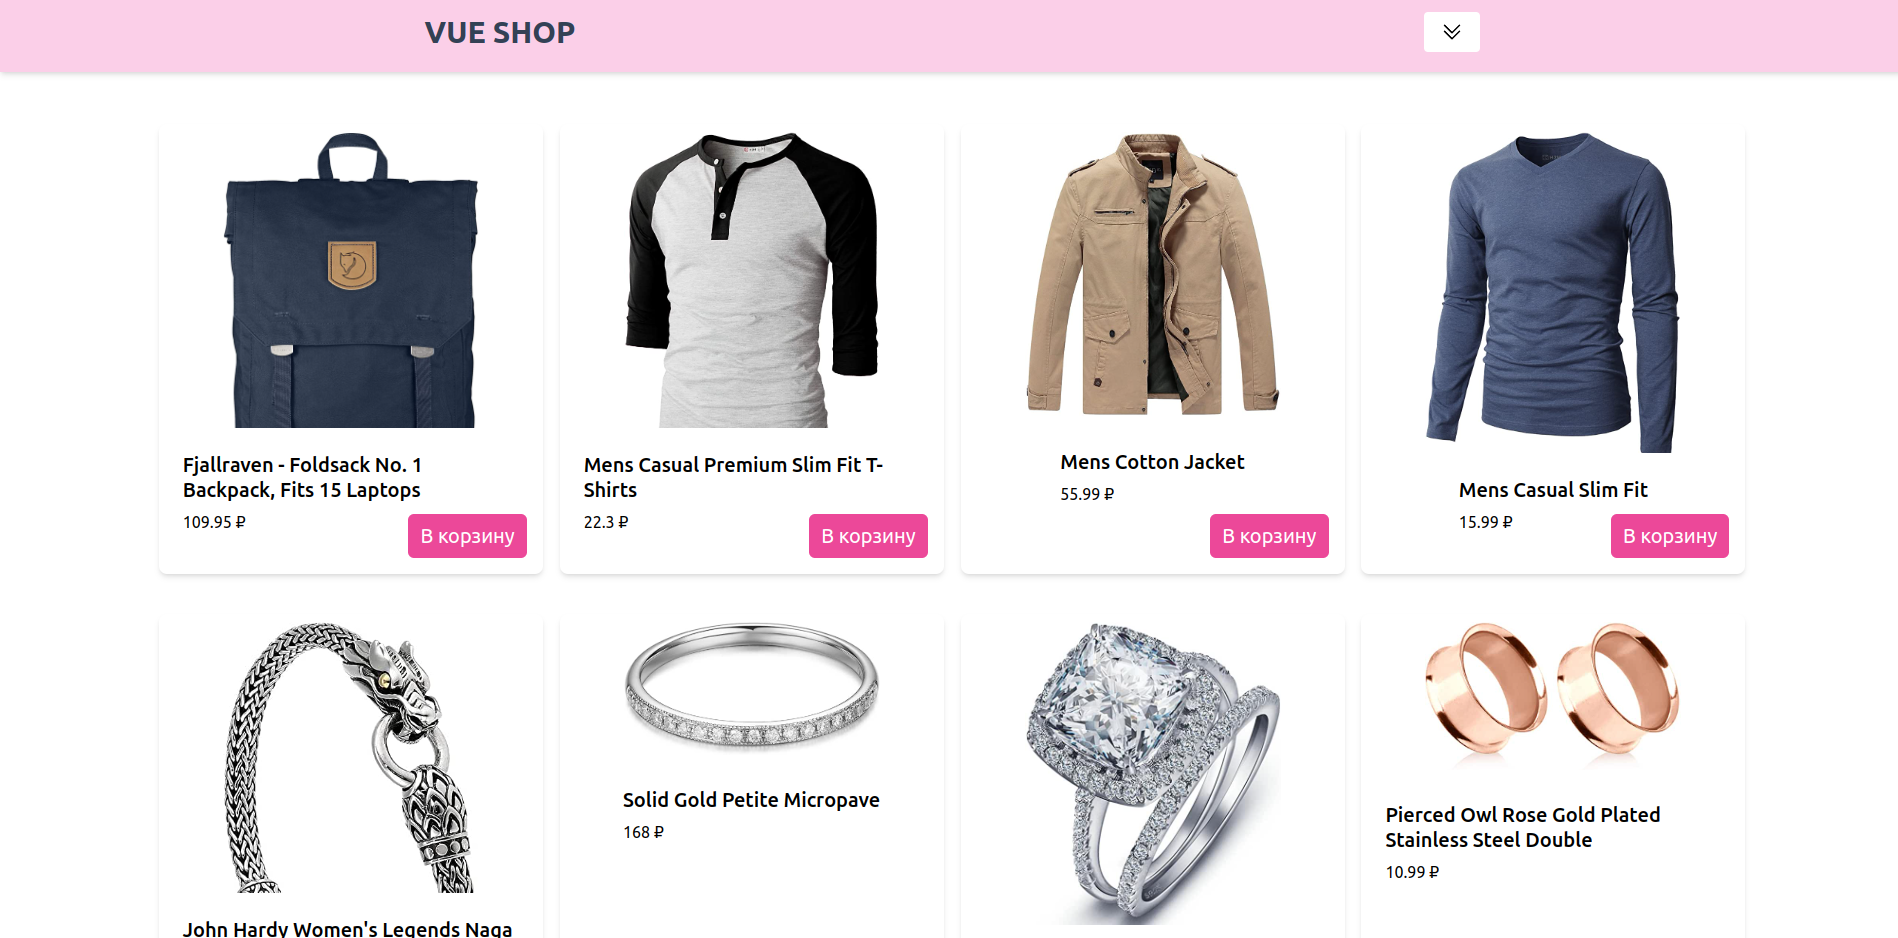
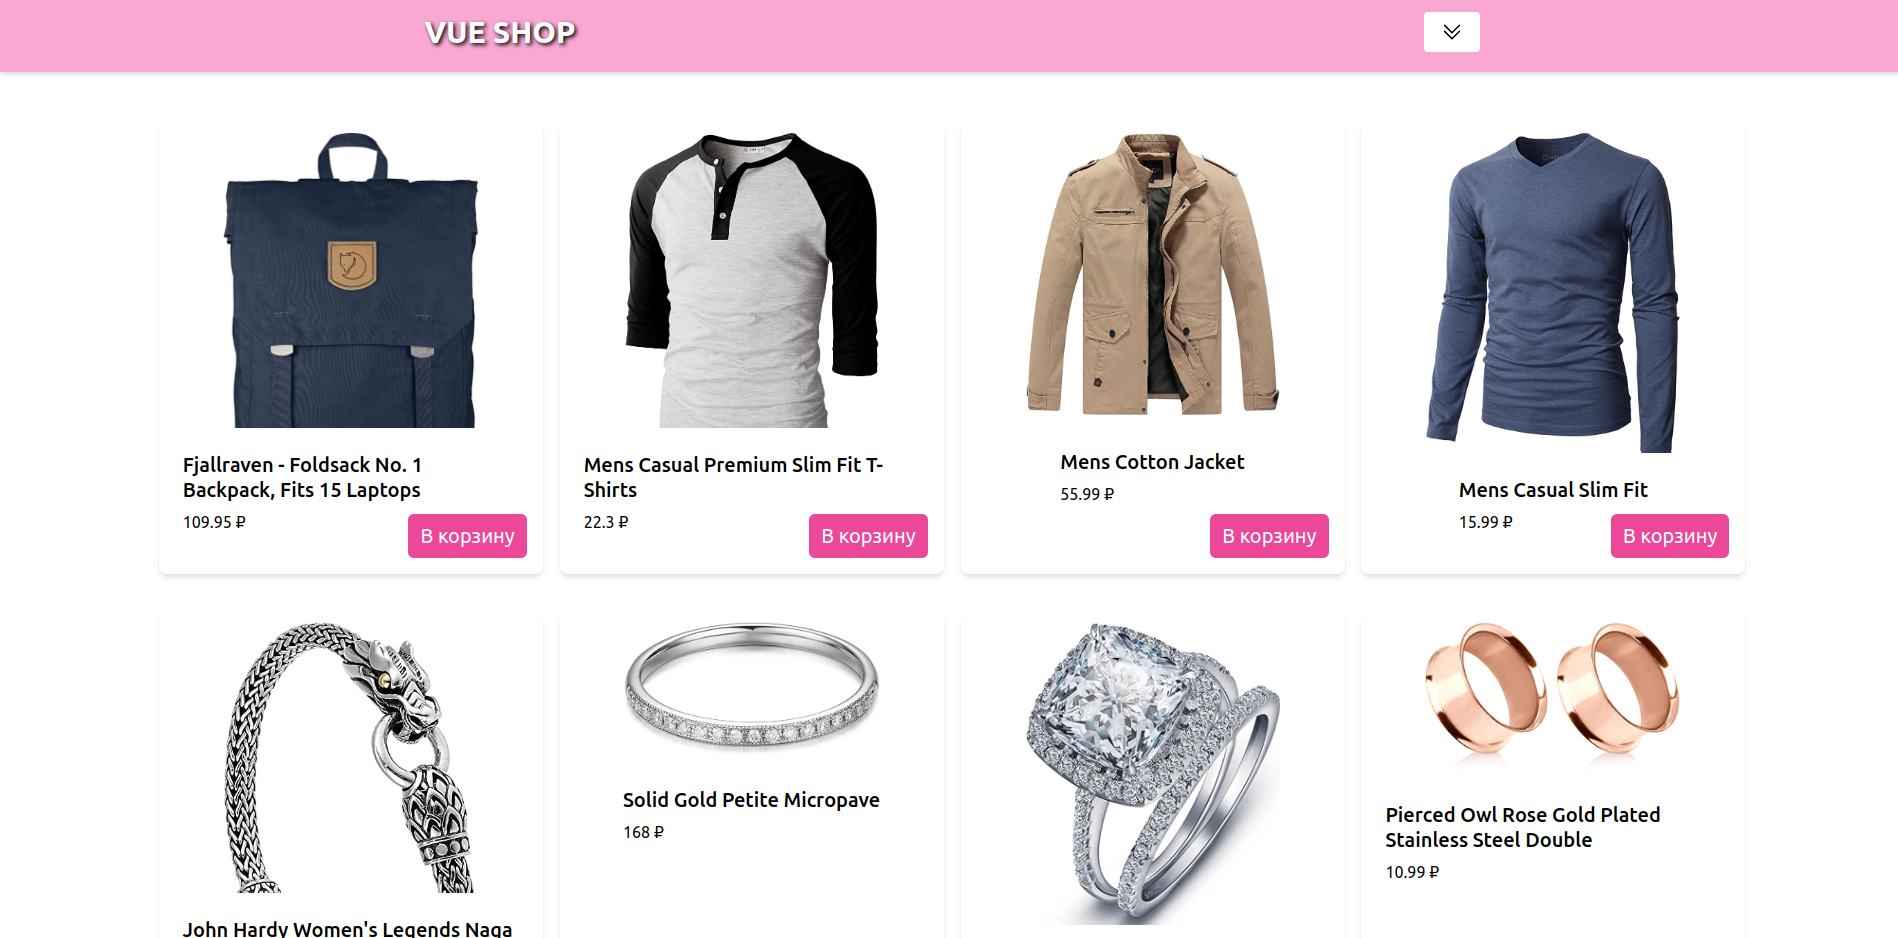
update README

Changed region(s): [[0.0, 0.0, 1.0, 0.0928]]

diff --git a/src/components/Card.vue b/src/components/Card.vue
@@ -1,19 +1,18 @@
 <script setup>
 import { defineProps } from "vue";
+import { storeToRefs } from 'pinia';
+import { useBasketStore } from "@/stores/basket";
+const store = useBasketStore();
+const { showProduct } = store;
+
 defineProps({
   product: Object,
 });
 </script>
 <template>
-  <div
-    class="rounded-lg bg-white shadow-secondary-1 h-[450px] 
-    w-96 dark:bg-surface-dark flex flex-col items-center card my-3 relative"
-  >
-    <div
-      class="relative overflow-hidden bg-cover bg-no-repeat"
-      data-twe-ripple-init
-      data-twe-ripple-color="light"
-    >
+  <div class="rounded-lg bg-white shadow-secondary-1 h-[450px] 
+    w-96 dark:bg-surface-dark flex flex-col items-center card my-3 relative">
+    <div class="relative overflow-hidden bg-cover bg-no-repeat" data-twe-ripple-init data-twe-ripple-color="light">
       <img class="rounded-t-lg h-auto w-64 my-2" :src="product.image" alt="" />
     </div>
     <div class="p-6 text-surface dark:text-white">
@@ -23,11 +22,11 @@ defineProps({
       <p class="mb-4 text-base">
         {{ product.price }} &#8381;
       </p>
-      <button
-        class="absolute bottom-4 right-4 py-2 px-3
+      <button 
+      @click="store.addProduct(product)"
+      class="absolute bottom-4 right-4 py-2 px-3
          bg-pink-500 rounded-md text-white text-xl
-         hover:transform hover:scale-105 duration-300"
-      >
+         hover:transform hover:scale-105 duration-300">
         В корзину
       </button>
     </div>

diff --git a/src/stores/basket.js b/src/stores/basket.js
@@ -1,0 +1,64 @@
+import { ref, computed, compile } from "vue";
+import { defineStore } from "pinia";
+
+export const useBasketStore = defineStore("basket", () => {
+  const products = ref([]);
+
+  const addProduct = (product) => {
+    products.value.push(product);
+  };
+
+  const delProduct = (product) => {
+    products.value = products.value.filter((item) => item.id !== product.id);
+  };
+
+  const incProduct = (product) => {
+    products.value = products.value.map((item) => {
+      if (item.id === product.id) {
+        return { ...item, count: item.count + 1 };
+      }
+      return item;
+    });
+  };
+
+  const decProduct = (product) => {
+    products.value = products.value.map((item) => {
+      if (item.id === product.id) {
+        return { ...item, count: item.count - 1 };
+      }
+      return item;
+    });
+
+    const countTotal = computed(() => {
+      const count = 0;
+      products.value.forEach((item) => {
+        count += item.count;
+      });
+      return count;
+    });
+
+    const totalSum = computed(() => {
+      return products.value.reduce(
+        (acc, item) => acc + item.price * item.count,
+        0
+      )
+    });
+
+
+    function showProduct(prod) {
+      console.log(prod);
+    };
+
+
+    return {
+      products,
+      showProduct,
+      addProduct,
+      totalSum,
+      delProduct,
+      incProduct,
+      decProduct,
+      countTotal,
+    };
+  };
+});

diff --git a/src/components/Navigation.vue b/src/components/Navigation.vue
@@ -5,12 +5,13 @@ const emit = defineEmits(['openMenu']);
 </script>
 
 <template>
-  <div class="bg-pink-200 shadow-md py-5 m-0">
+  <div class="bg-pink-300 shadow-md py-5 m-0">
     <div class="flex justify-around items-center">
-      <h1 class="text-3xl font-bold text-slate-700 uppercase">Vue Shop</h1>
+      <h1 class="text-3xl font-bold text-slate-700
+      uppercase text">Vue Shop</h1>
       <button 
       @click="emit('openMenu')"
-      class="bg-white px-4 py-2 text-xl rounded hover:outline hover:outline-pink-300">
+      class="bg-white px-4 py-2 text-xl rounded ">
         <svg
           xmlns="http://www.w3.org/2000/svg"
           fill="none"
@@ -30,4 +31,19 @@ const emit = defineEmits(['openMenu']);
   </div>
 </template>
 
-<style scoped></style>
+<style scoped>
+.text{
+  color: white;
+  text-shadow: 2px 2px 6px #000000;
+}
+
+button{
+  transition-duration: 0.4s;
+  transition-timing-function: ease;
+}
+
+button:hover{
+  transform: scale(1.1);
+  color: rgb(237, 145, 160);
+}
+</style>

diff --git a/src/App.vue b/src/App.vue
@@ -1,11 +1,14 @@
 <script setup>
-import { ref, onMounted } from "vue";
+import { ref, onMounted, defineAsyncComponent } from "vue";
 import Navigation from "./components/Navigation.vue";
 import axios from "axios";
 import Card from "./components/Card.vue";
 import ProductsNavigation from "./components/ProductsNavigation.vue";
-import HiddenMenu from "./components/HiddenMenu.vue";
+// import HiddenMenu from "./components/HiddenMenu.vue";
 
+const HiddenMenu = defineAsyncComponent(() =>
+  import('./components/HiddenMenu.vue')
+)
 const showCards = ref(false);
 
 const products = ref([]);
@@ -28,7 +31,9 @@ onMounted(() => {
 <template>
   <header>
     <Navigation @openMenu="showCards = !showCards" />
+
     <HiddenMenu v-if="showCards" />
+
   </header>
   <main>
     <div class="grid grid-cols-4 my-10 gap-4 w-10/12 mx-auto">

diff --git a/src/components/HiddenMenu.vue b/src/components/HiddenMenu.vue
@@ -1,8 +1,23 @@
-<script setup></script>
+<script setup>
+import { useBasketStore } from '@/stores/basket';
+import { storeToRefs } from 'pinia';
+
+const store = useBasketStore();
+const {countTotal} = storeToRefs(store);
+console.log(countTotal);
+</script>
 
 <template>
   <div class="w-1/4 absolute right-0 top-22 shadow-2xl h-screen
    bg-slate-100 z-10">
-    <p class="text-3xl text-center text-pink-500">Моя корзина</p>
+    <div class="flex flex-col items-center mt-24">
+      <img src="@/assets/basket-red.png" class="mx-auto my-3" width="120" height="auto" alt="">
+      <h1 class="text-2xl text-center font-bold text-slate-700 uppercase text">Ваша корзина пуста</h1>
+    </div>
+
   </div>
 </template>
+
+<style scoped>
+  
+</style>

diff --git a/index.html b/index.html
@@ -2,9 +2,9 @@
 <html lang="en">
   <head>
     <meta charset="UTF-8">
-    <link rel="icon" href="/favicon.ico">
+    <link rel="icon" href="./src/assets/ava.png">
     <meta name="viewport" content="width=device-width, initial-scale=1.0">
-    <title>Vite App</title>
+    <title>Shop App</title>
   </head>
   <body>
     <div id="app"></div>

diff --git a/src/components/ProductsNavigation.vue b/src/components/ProductsNavigation.vue
@@ -9,7 +9,7 @@
       <button class="btn-nav">2</button>
       <button class="btn-nav">3</button>
       <button class="btn-nav">4</button>
-      <button class="btn-nav">4</button>
+      <button class="btn-nav">5</button>
       <button class="btn-nav">След</button>
     </div>
 </template>
